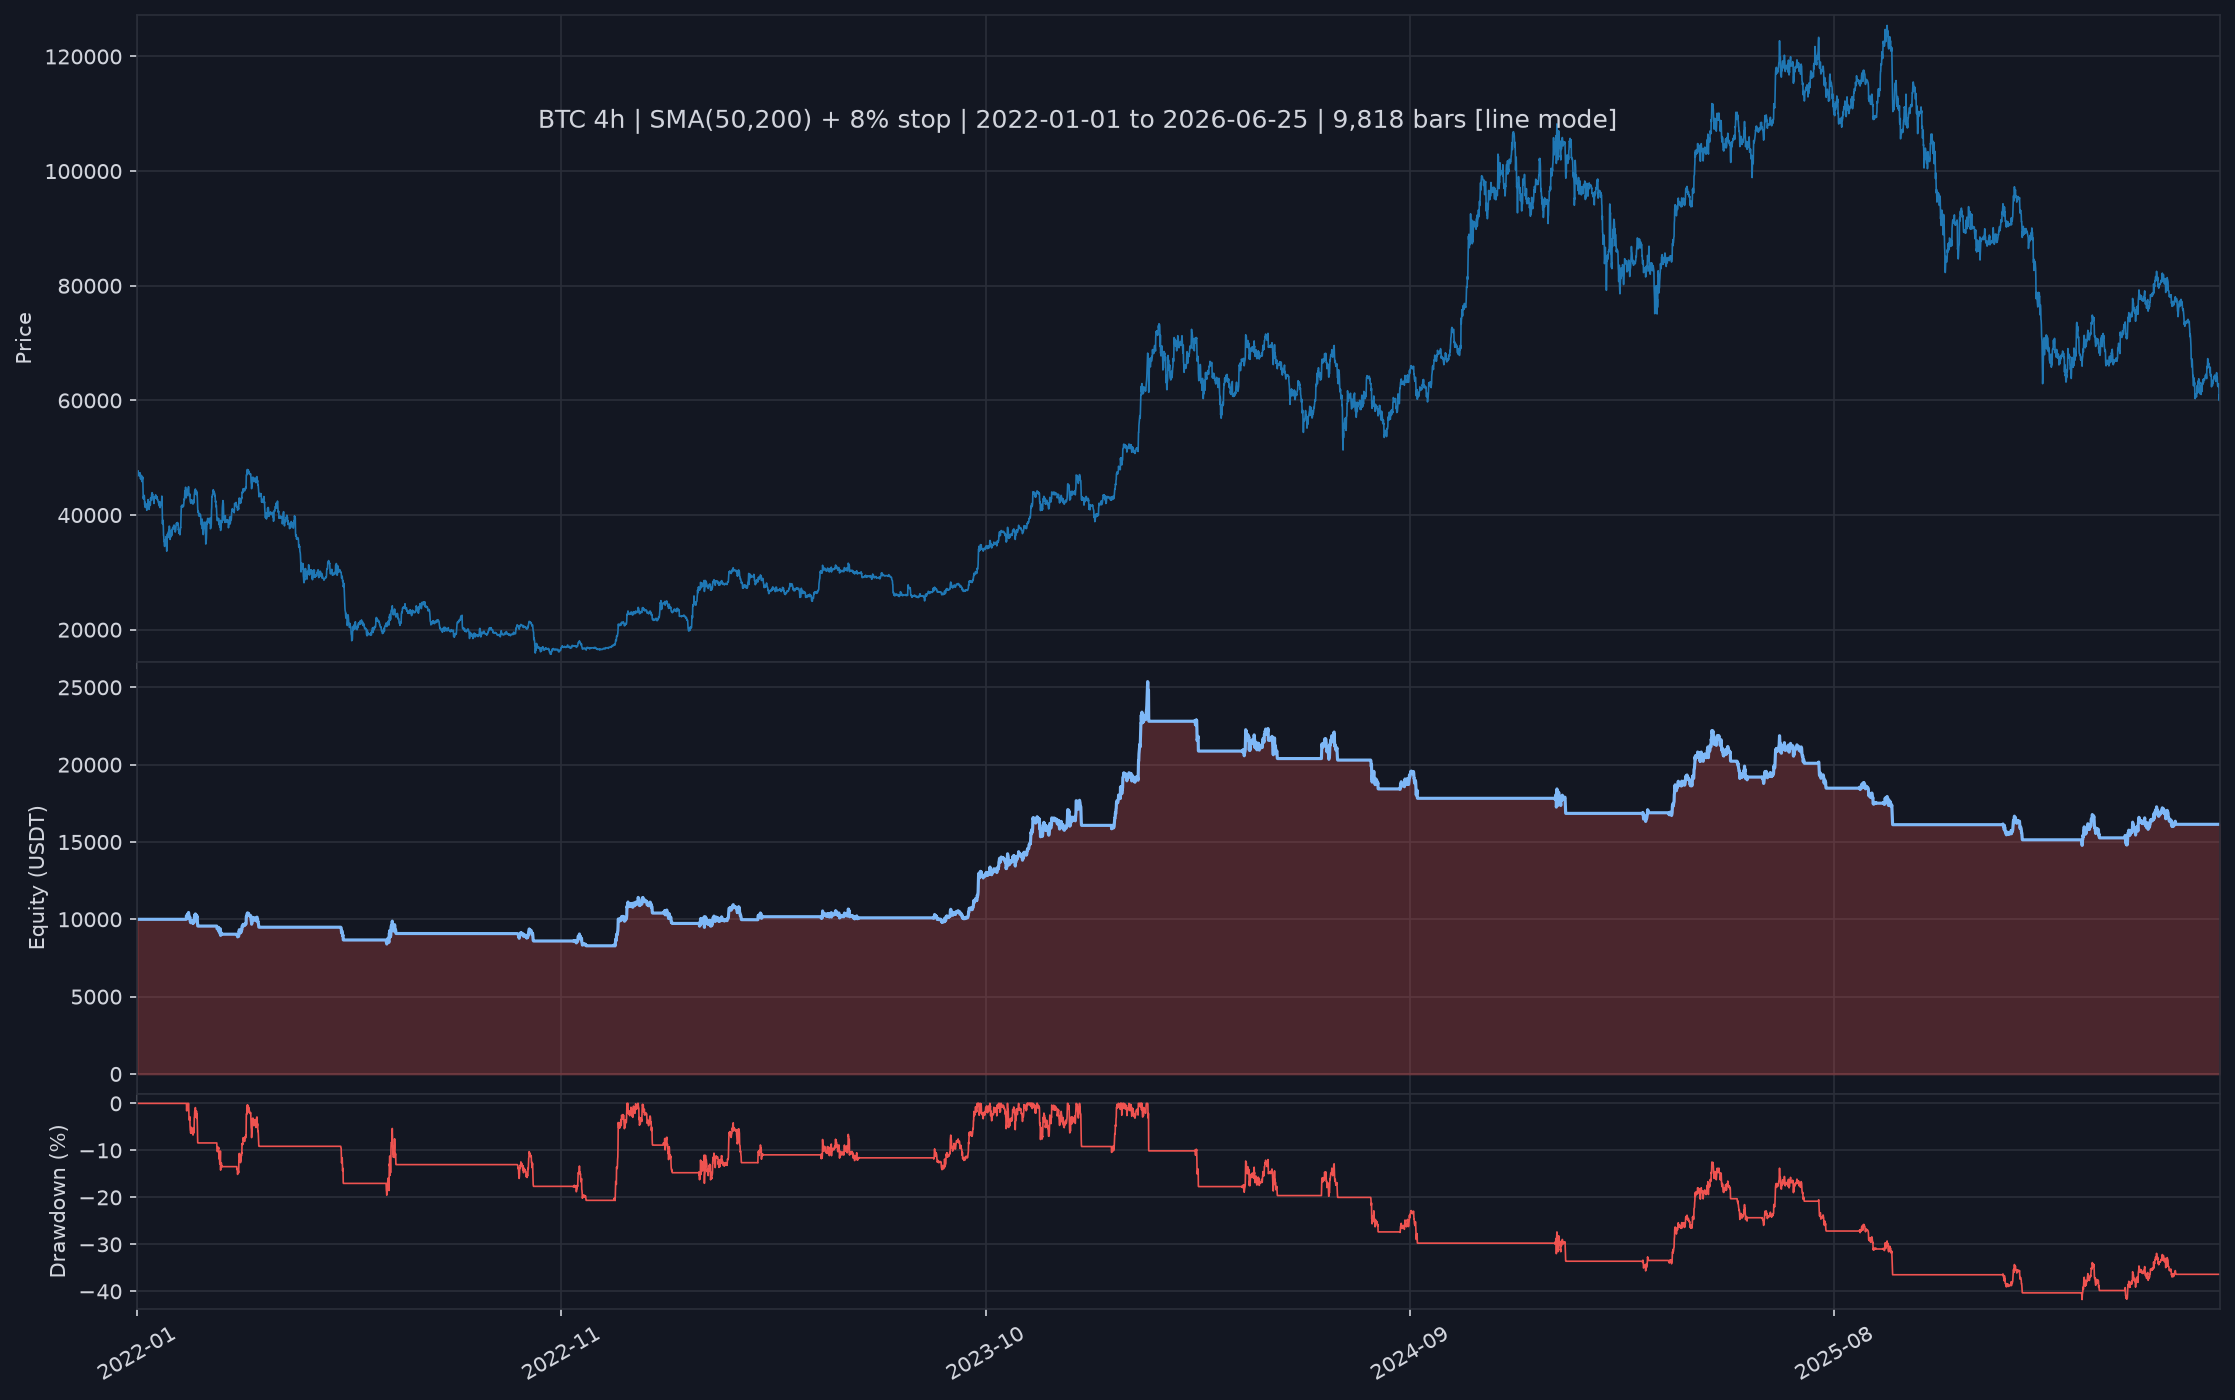
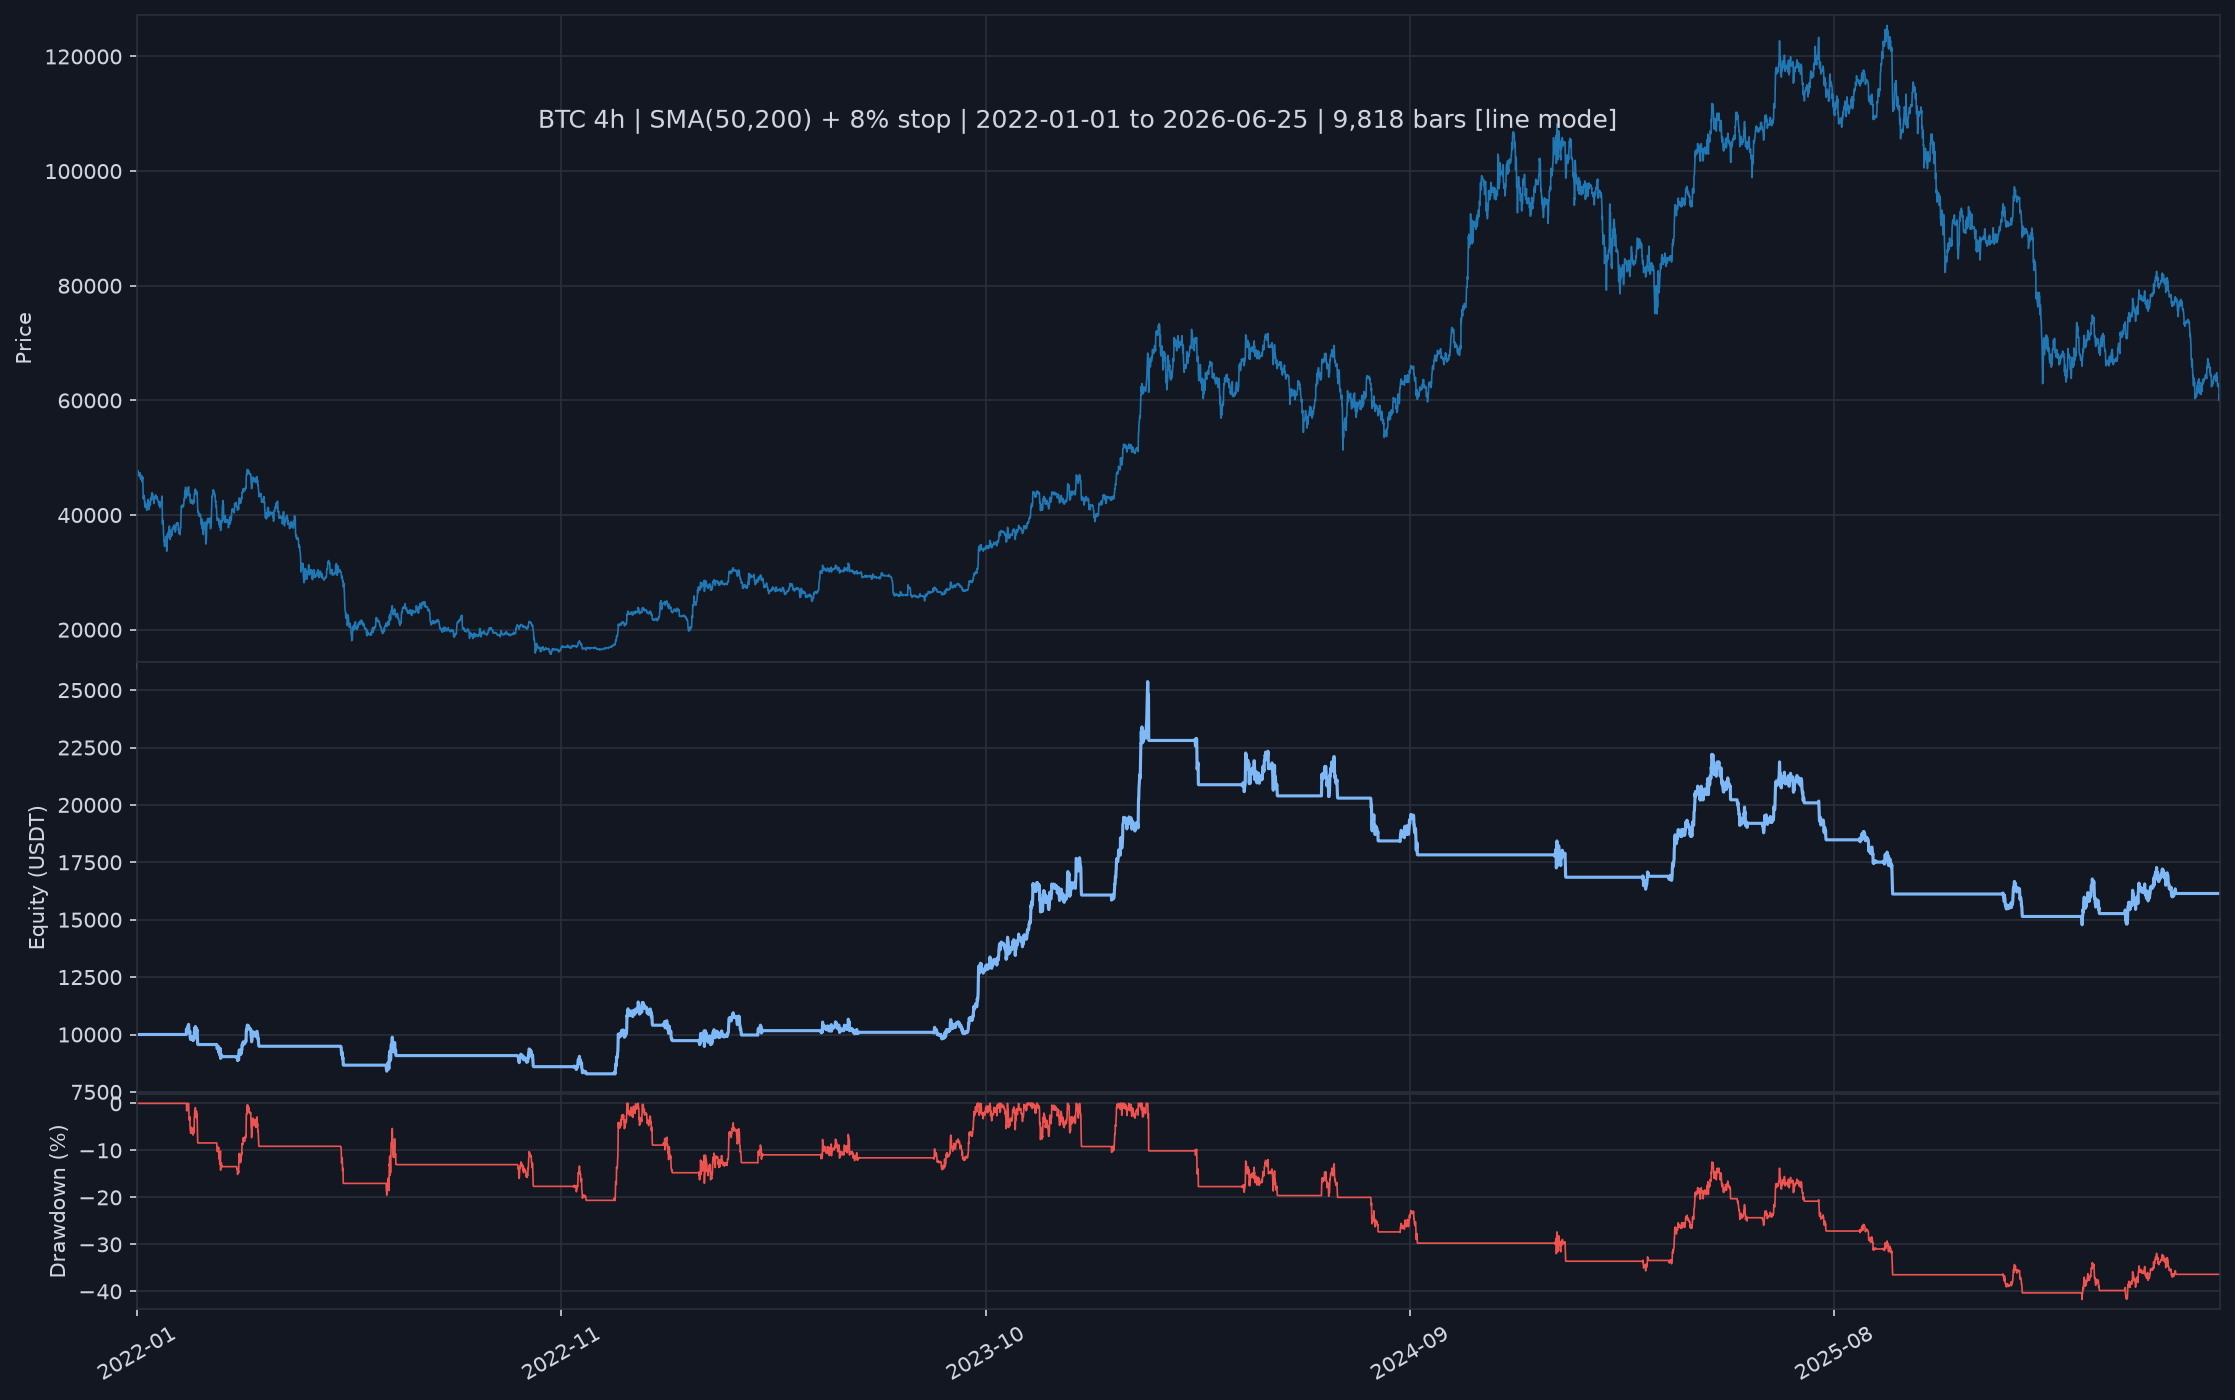
fix: drawdown fill was landing on equity panel (axes index off by 1)
mplfinance inserts a hidden volume axis at index 1 even when volume=False,
shifting all subsequent panels. axes[2] was the equity panel; the drawdown
panel is axes[-1]. Switched to axes[-1] which is always the last panel
regardless of mplfinance internal layout.

Changed region(s): [[0.0309, 0.4914, 1.0, 0.7986], [0.0309, 0.5221, 0.0617, 0.6143]]

diff --git a/reporting/plot.py b/reporting/plot.py
@@ -163,10 +163,10 @@ def plot_results(
         tight_layout=True,
     )
 
-    # Manual drawdown fill using x-coords from the line mplfinance already drew,
-    # which guarantees alignment with the internal axis regardless of how mplfinance
-    # maps timestamps to float positions internally.
-    dd_ax = axes[2]
+    # Manual drawdown fill using x-coords from the line mplfinance already drew.
+    # axes[-1] = drawdown panel: mplfinance inserts a hidden volume axis at index 1
+    # even when volume=False, so numeric indices are unreliable — use -1 (last panel).
+    dd_ax = axes[-1]
     dd_lines = dd_ax.get_lines()
     if dd_lines:
         dd_ax.fill_between(
